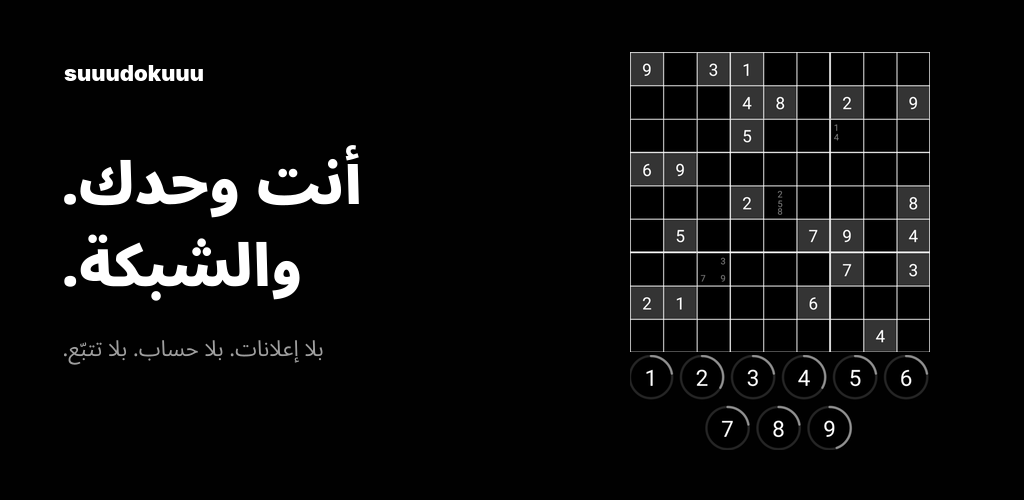
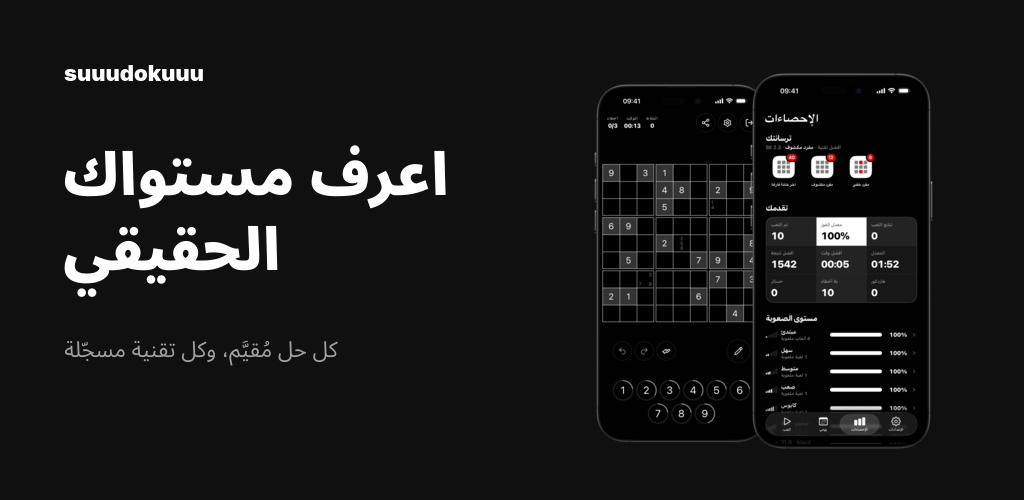
fix(app): highlight rated solves in store feature artwork

diff --git a/packages/app/fastlane/screenshots/design/README.md b/packages/app/fastlane/screenshots/design/README.md
@@ -68,20 +68,28 @@ the current screenshot output is made by `compose-screenshots.sh`.
 
 ## Play feature artwork
 
-The Play feature graphic is a 1024×500 near-black `#010101` composition. It
-keeps the app’s quiet, airy dark interface: a small white `suuudokuuu`
-wordmark, two short localized headline lines (“Just you.” / “And the grid.”),
-and the values line (“No ads. No account. No tracking.”). On the right it
-uses crops of the actual Pixel 5 hero screenshot: the 648×648 board crop at
-`+213+624` and the 630×200 circular number-pad crop at `+225+1520`, each
-resized into the banner. This reuses real captured UI and does not add
-illustrated or fabricated interface. If the source screenshot is reframed,
-review these crop coordinates and the resulting composition before updating
-the committed artwork. The board crop is resized to 300×300; the number pad
-is resized to 300px wide.
+The Play feature graphic is a 1024×500 dark `#101010` composition that carries
+the App Store statistics promise: “Know your real level.” and “Rated solves.
+Tracked techniques.” The headline uses two lines beside actual framed
+gameplay and statistics phones. The statistics phone sits in front so its
+technique arsenal and progress remain visible.
+
+Sources are `variants/dark/ios/<locale>/01_iphone_hero-board.png` and
+`07_iphone_stats.png`, both 1320×2868. Gameplay is cropped at x124 with a
+1072×2240 rectangle; its y coordinate follows the center top frame edge
+because localized captions change the phone position. Statistics uses a
+1032×2220 crop at `+152+32`. Exterior background is removed by a connected
+corner flood fill. Gameplay is resized to 365px high at `+594+82`, and
+statistics to 400px high at `+750+50`. Review the complete bezels and absence
+of source captions whenever the screenshots are reframed.
+
+Eleven locales use their matching App Store UI captures. Bengali and Urdu
+use the English phone captures because Apple has no matching screenshot
+locales; their banner headlines and descriptor remain fully localized.
 
 Localized copy is kept in `design/<locale>/feature.strings`; all 13 Play
-locales have exactly `headline-first`, `headline-second`, and `values` keys.
+locales have exactly `headline-first`, `headline-second`, and `values` keys,
+reusing the existing localized `10-stats` title and subtitle verbatim.
 The brand wordmark and Latin/Cyrillic headlines use bundled Inter Black 900;
 the values line uses bundled Inter Regular 400. Arabic, Nastaliq Urdu,
 Devanagari, Bengali, and Simplified Chinese use the corresponding Noto fonts.

diff --git a/packages/app/fastlane/screenshots/README.md b/packages/app/fastlane/screenshots/README.md
@@ -185,11 +185,13 @@ change the layout rhythm, and keep the two manifests mirrored.
 Store artwork is regenerated manually and reviewed before upload; generation
 does not run in CI. Generate localized Play feature graphics and the icon with
 `bash packages/app/fastlane/screenshots/design/compose-play-artwork.sh`.
-The feature graphic uses a near-black `#010101` canvas, the small white
-`suuudokuuu` wordmark, localized “Just you. And the grid.” copy and a short
-“No ads. No account. No tracking.” values line. It pairs crops from the
-committed Pixel 5 hero screenshot (the board and circular number pad) with
-that copy; it adds no invented interface. The 13 localized
-`design/<locale>/feature.strings` files are its copy source.
+The feature graphic uses a dark `#101010` canvas, the small white
+`suuudokuuu` wordmark, and the existing statistics promise “Know your real
+level.” / “Rated solves. Tracked techniques.” It pairs actual framed
+gameplay and statistics phones cropped from the dark App Store screenshots.
+Eleven locales use matching UI captures; Bengali and Urdu use English phone
+captures with localized copy. The 13 `design/<locale>/feature.strings` files
+reuse the localized `10-stats` titles and subtitles. Crop dimensions and
+positions are documented in `design/README.md`.
 Google Play tablet screenshots and recorded app preview videos are not part of
 the current committed set.

diff --git a/packages/app/fastlane/README.md b/packages/app/fastlane/README.md
@@ -294,11 +294,13 @@ uploaded when explicitly requested.
       screenshots at 1080×1920, `featureGraphic.png` at 1024×500, and
       `icon.png` at 512×512 for each of 13 locales. The screenshot composer
       frames Pixel 5 captures and fits them to the Play phone canvas. The
-      feature graphic uses a near-black `#010101` canvas, the small white
-      `suuudokuuu` wordmark, localized “Just you. And the grid.” and
-      “No ads. No account. No tracking.” copy, plus crops of the real Pixel 5
-      hero board and circular number pad. Its localized copy comes from
-      `screenshots/design/<locale>/feature.strings`; it adds no fabricated UI.
+      feature graphic uses a dark `#101010` canvas, the small white
+      `suuudokuuu` wordmark, and localized “Know your real level.” / “Rated
+      solves. Tracked techniques.” copy from the App Store statistics shot.
+      Two actual framed phones show gameplay behind statistics and its
+      technique arsenal. Matching App Store UI captures serve 11 locales;
+      Bengali and Urdu use English phones with localized copy from
+      `screenshots/design/<locale>/feature.strings`.
       The icon is resized from `packages/app/assets/icon.png`, preserving the
       app icon's Ukraine flag colors.
 4. Upload happens only on request: check "Also upload the committed store
